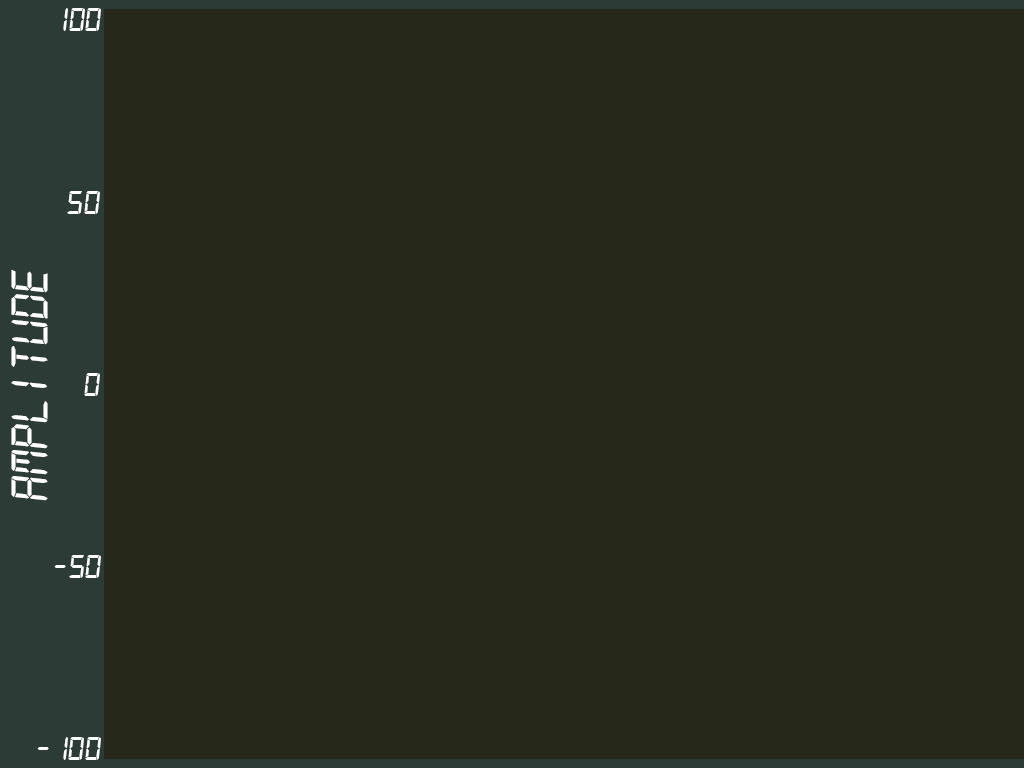
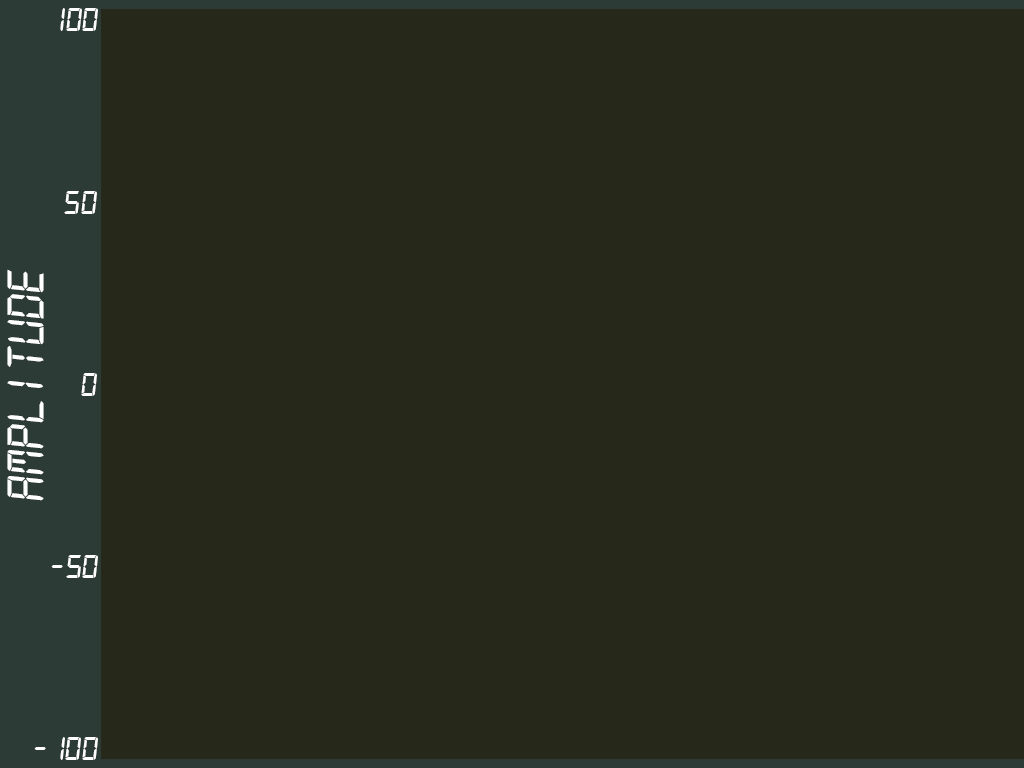
Extended signal background by 3 pixels.

diff --git a/NeuroFeedbackTask.m b/NeuroFeedbackTask.m
@@ -264,9 +264,12 @@ try
     FeedbackTexture = Screen('MakeTexture', Window, Im);
 
     % create feedback rect for signal drawing
-    FeedbackRect = [0 0 920 750];
-    FeedbackXCenter = 52 + XCenter;
-    CenteredFeedback = CenterRectOnPoint(FeedbackRect, FeedbackXCenter, YCenter);
+    FeedbackRect = [0 0 923 750];
+    OrigFeedbackRect = [0 0 920 750];
+    FeedbackXCenter = 50.5 + XCenter;
+    OrigFeedXCenter = 52 + XCenter;
+    CenteredFeedback = CenterRectOnPointd(FeedbackRect, FeedbackXCenter, YCenter);
+    CenteredOrigFeed = CenterRectOnPointd(OrigFeedbackRect, OrigFeedXCenter, YCenter);
 
     %%% IMPROVED SETUP %%%
     FileName = fullfile(pwd, 'Images', 'Questions',  'Improved.png');
@@ -284,7 +287,7 @@ try
     % create original and plotted ranges
     XRange = [0 (MaxX-1)];
     YRange = [-100 100];
-    NewXRange = [CenteredFeedback(1) CenteredFeedback(3)];
+    NewXRange = [CenteredOrigFeed(1) CenteredOrigFeed(3)];
     NewYRange = [CenteredFeedback(2) CenteredFeedback(4)];
     
     % dummy signals
@@ -502,7 +505,7 @@ try
     
                     % draw feedback line
                     Screen('DrawLines', Window, ...
-                        [NewX_Line NewXRange(1) NewXRange(2); ...
+                        [NewX_Line CenteredFeedback(1) CenteredFeedback(3); ...
                         Waveforms{iSig}(Begin:iEnd) sum(NewYRange)/2 sum(NewYRange)/2], ...
                         [repmat(4, length(Begin:iEnd)/2, 1); 1], ...
                         [repmat(TrialColor', 1, iEnd-Begin+1) [1 1 1; 1 1 1]']);
